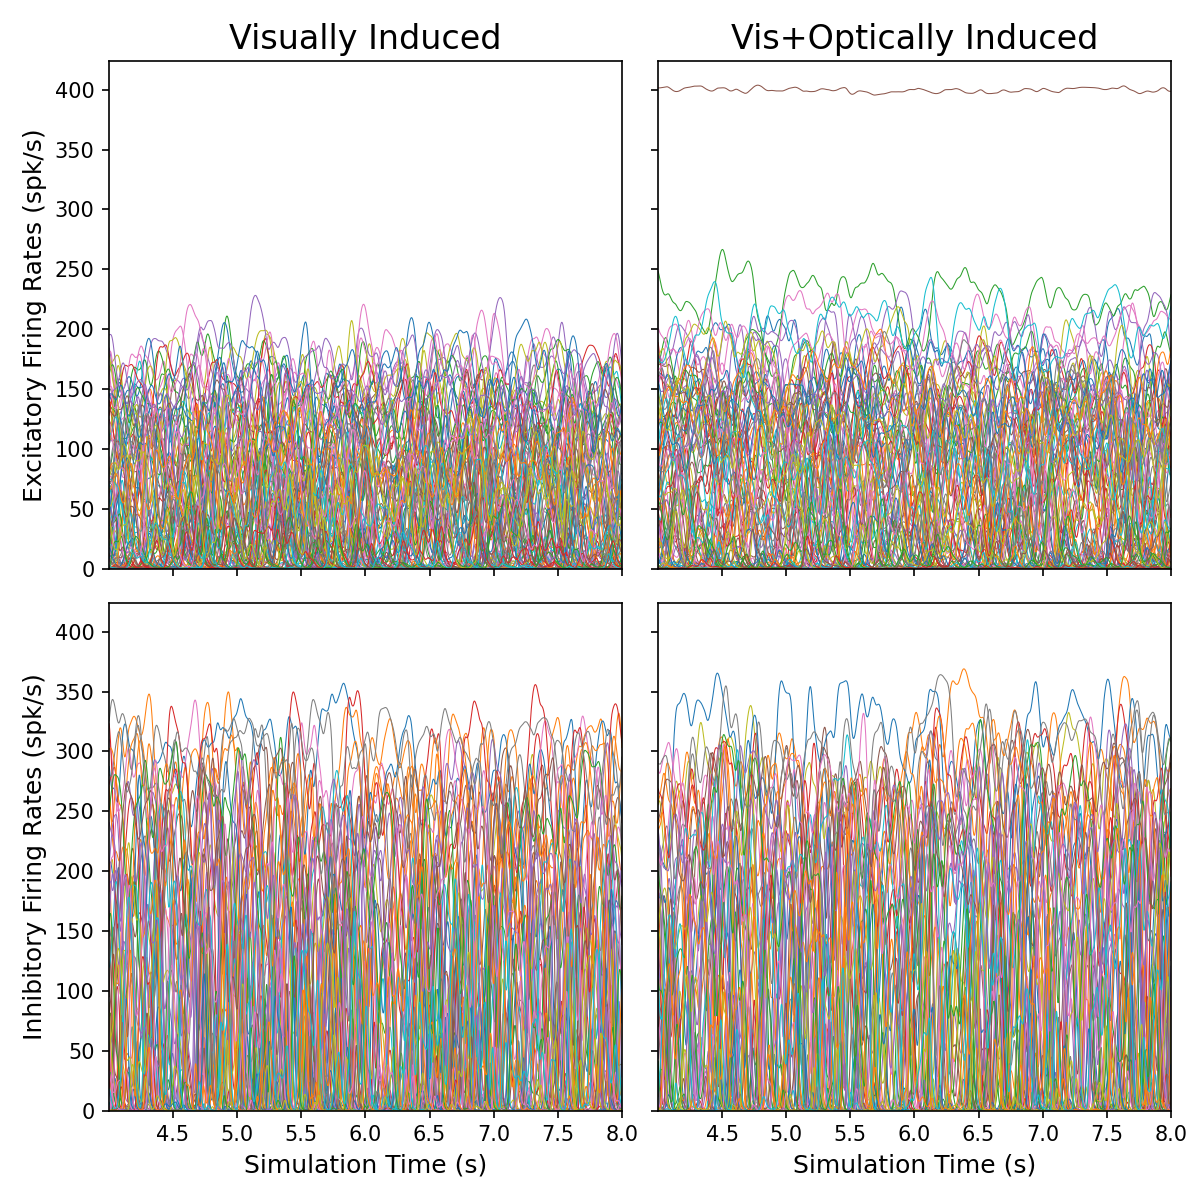
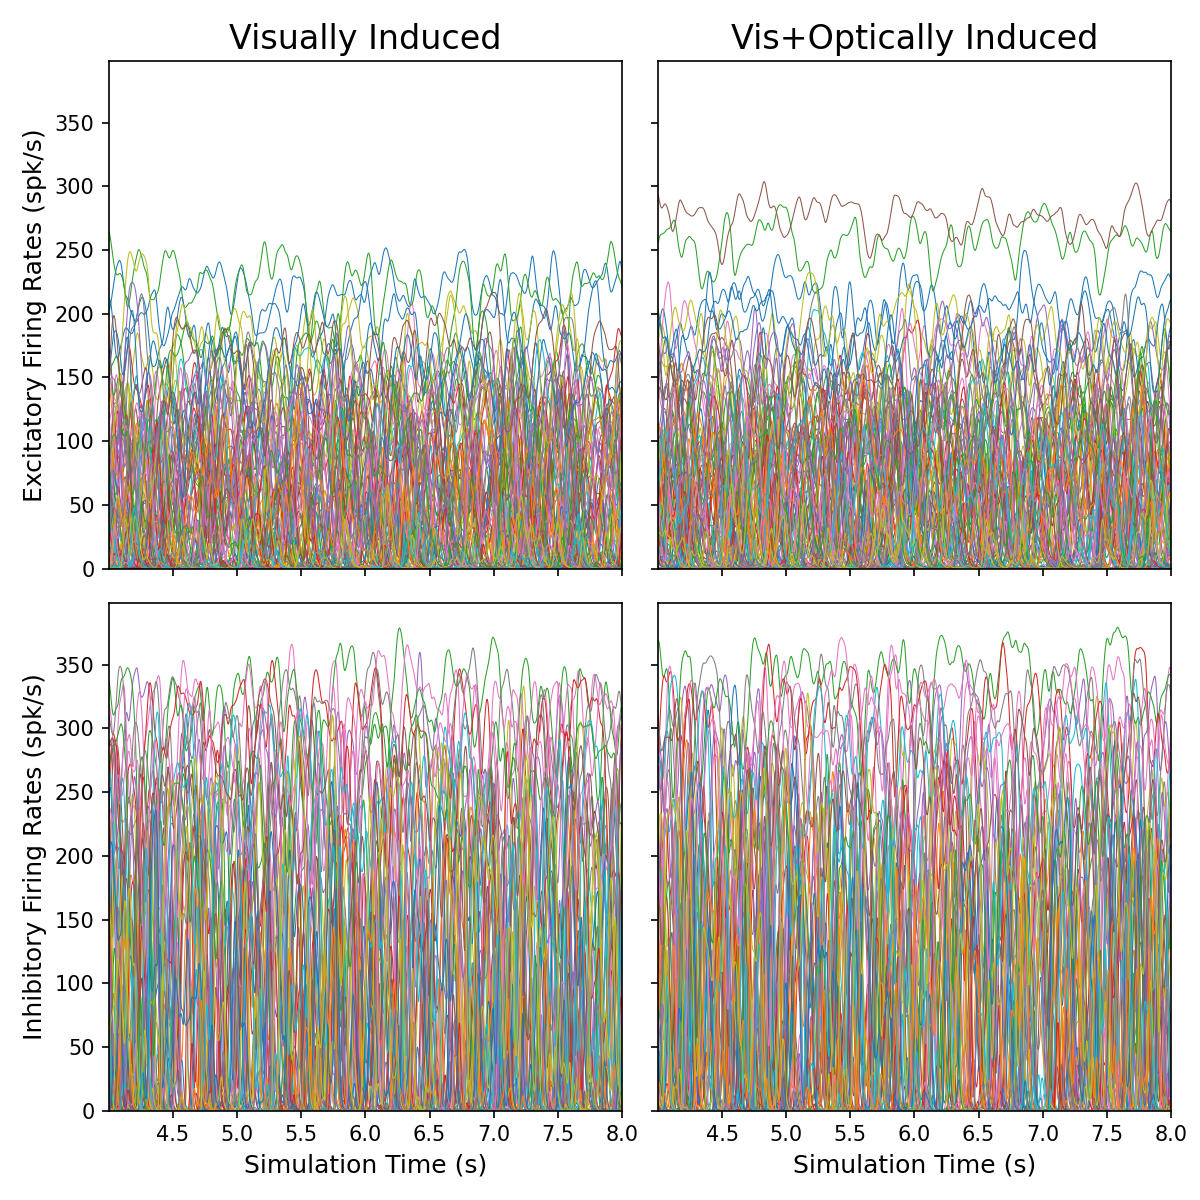
increase number of seeds in titration simulations

diff --git a/sparse_weights/scripts/runjob_sim_vary_struct_disord.py b/sparse_weights/scripts/runjob_sim_vary_struct_disord.py
@@ -107,7 +107,7 @@ def runjobs():
                     text_file.write("#SBATCH --account=theory \n")
                 text_file.write("#SBATCH --job-name="+jobname+ "\n")
                 text_file.write("#SBATCH -t 0-11:59  \n")
-                text_file.write("#SBATCH --mem-per-cpu=40gb \n")
+                text_file.write("#SBATCH --mem-per-cpu=60gb \n")
                 text_file.write("#SBATCH --gres=gpu\n")
                 text_file.write("#SBATCH -c 1 \n")
                 text_file.write("#SBATCH -o "+ ofilesdir + "/%x.%j.o # STDOUT \n")

diff --git a/sparse_weights/scripts/sim_vary_struct_disord.py b/sparse_weights/scripts/sim_vary_struct_disord.py
@@ -68,7 +68,7 @@ prms['Nori'] = Nori
 prms['NE'] = NE
 prms['NI'] = NI
 
-seeds = np.arange(5)
+seeds = np.arange(50)
 
 structs = np.arange(0,8+1)/8
 disords = 3**(np.arange(0,8+1)/8)
